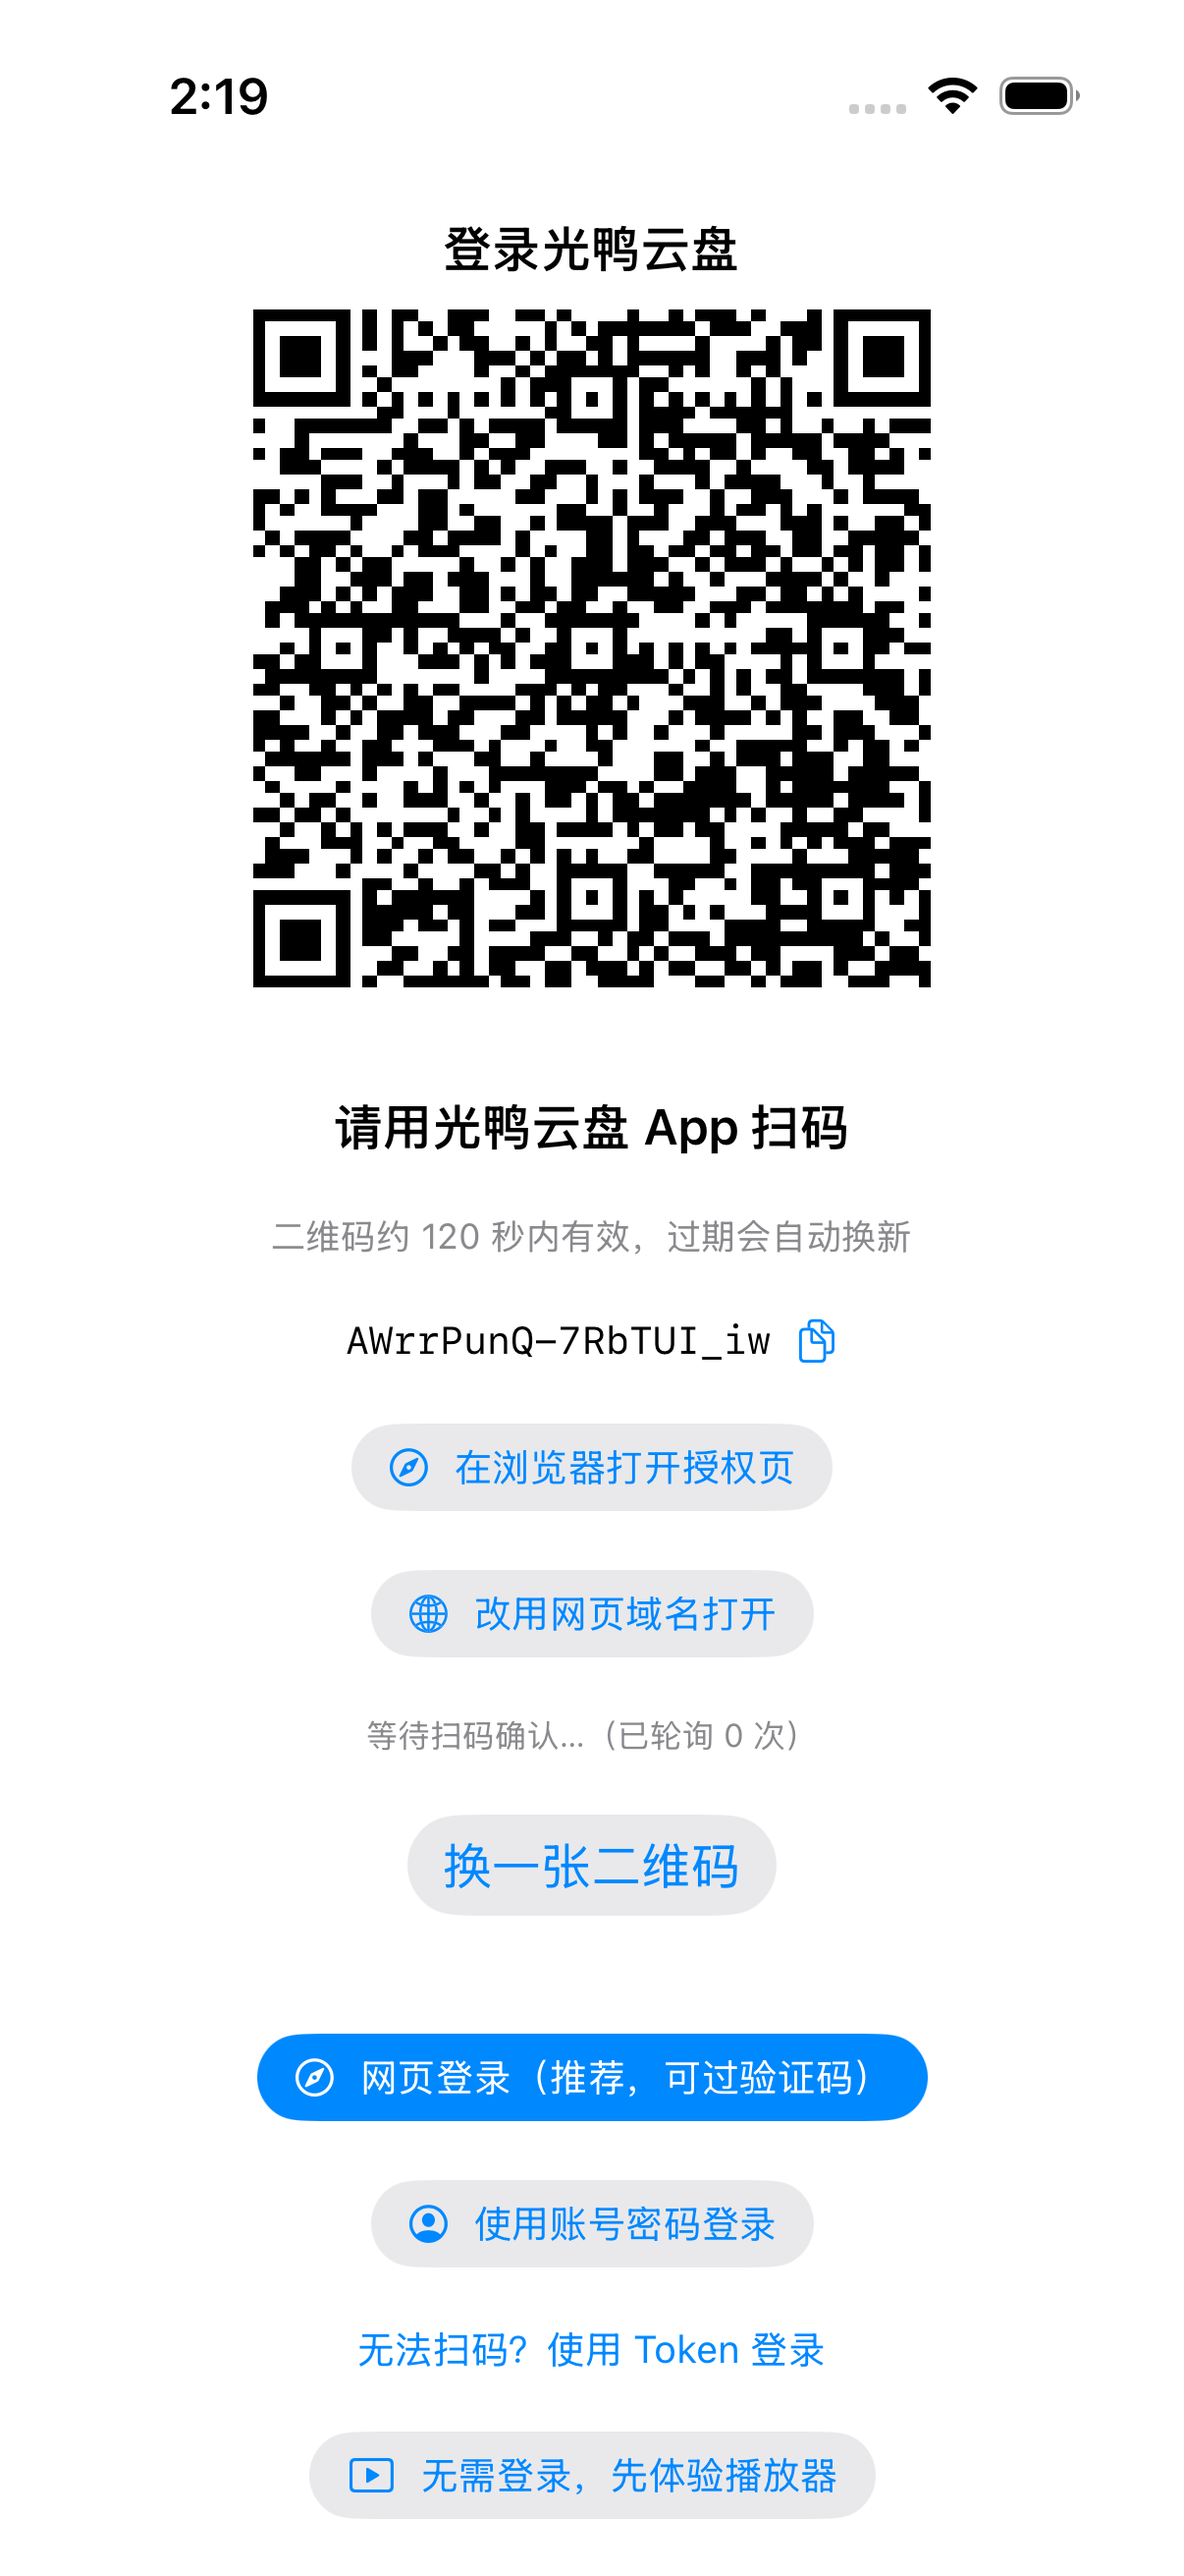
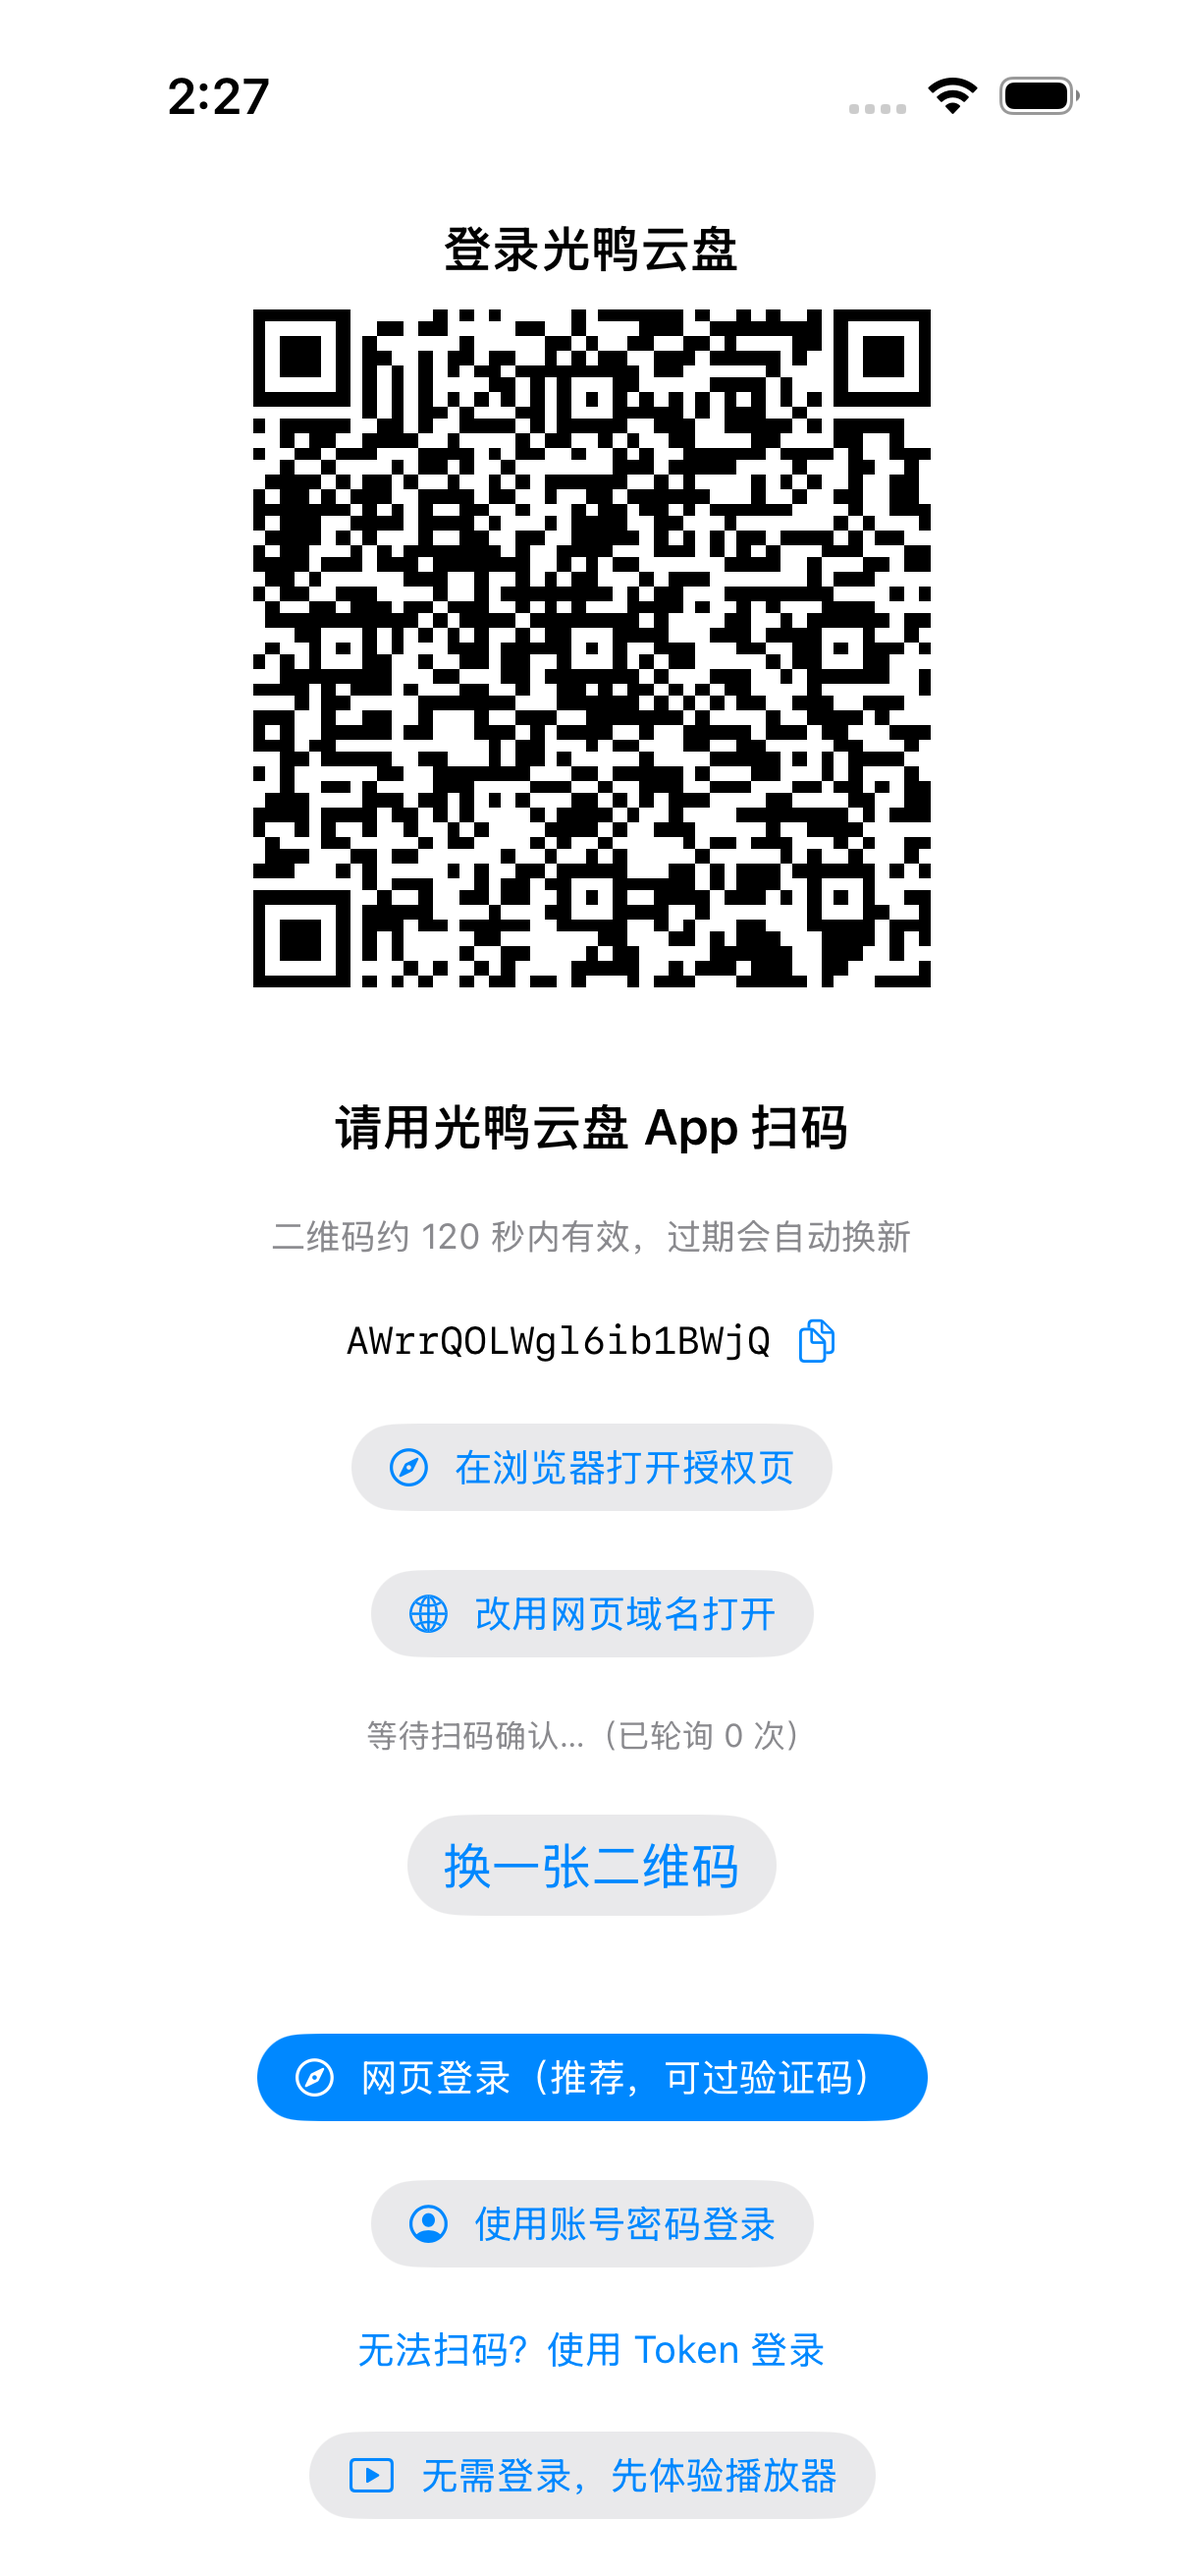
docs+ui(m2): 网页登录提示文案、登录问题定位记录、模拟器截图归档

Changed region(s): [[0.2148, 0.0927, 0.7977, 0.4016], [0.3682, 0.4943, 0.6443, 0.5252], [0.1841, 0.0309, 0.2148, 0.0618]]

diff --git a/Sources/LemonPlayer/Features/Login/WebLoginView.swift b/Sources/LemonPlayer/Features/Login/WebLoginView.swift
@@ -6,7 +6,7 @@ import WebKit
 /// 这里轮询读取并自动完成 App 登录。
 struct WebLoginView: View {
     @Environment(\.dismiss) private var dismiss
-    @State private var message = "在网页中完成登录，成功后会自动返回 App"
+    @State private var message = "在网页中登录（手机验证码 / 密码），成功后自动返回 App"
     @State private var isFinishing = false
 
     let onTokens: @MainActor (String, String) async -> TokenLoginResult

diff --git a/docs/PROGRESS.md b/docs/PROGRESS.md
@@ -8,14 +8,14 @@
 
 | 项目 | 值 |
 |---|---|
-| 当前里程碑 | **v1.0.0 已发布（功能冻结）** |
-| 当前阶段目标 | 真机验收（登录/播放/字幕/下载）→ 反馈修复 → v1.0.1 |
-| 整体进度 | M0-M5 ✅ · M6 ✅80% · M7 ✅90% · **v1.0.0 已出包** |
-| 构建状态 | ✅ CI 全绿 + **v1.0.0 正式 Release**（非预发布） |
+| 当前里程碑 | **v1.0.0 已发布；v1.0.1 登录修复中** |
+| 当前阶段目标 | v1.0.1：App 内网页登录（手机验证码/密码）+ 域名/路由修正 |
+| 整体进度 | M0-M5 ✅ · M6 ✅80% · M7 ✅90% · v1.0.0 已出包 |
+| 构建状态 | ✅ CI 全绿 + v1.0.0 正式 Release；UI 模拟器工作流已跑通 |
 | 单测覆盖率 | 7 个包 **86 个用例**（1 skipped） |
-| 最新产物 | Release `v1.0.0`：https://github.com/2744317644/LemonPlayer/releases/tag/v1.0.0 |
-| 下一步 | 用户真机验收；问题进入 v1.0.1 修复 |
-| 阻塞项 | 真机登录待确认；MKV PiP/AirPlay 为 P2（ADR-020） |
+| 最新产物 | v1.0.1 待发布（登录修复）；v1.0.0 已可用 |
+| 下一步 | 发 v1.0.1 → 用户用「网页登录」走手机验证码登录 |
+| 阻塞项 | 账号密码纯 API 被风控（x-captcha-token）；MKV PiP/AirPlay P2 |
 
 ---
 
@@ -125,6 +125,8 @@
 | 2026-11-05 19:35 | 发布 | 发布前自检：7 包 **86 用例全绿**（1 skipped）；DELIVERY/REGRESSION/README 状态对齐 rc22，准备 v1.0.0 冻结 | `docs/**` | ✅ |
 | 2026-11-05 20:05 | 发布 | 后台下载会话冷启动恢复修复；CI 全绿后打 **`v1.0.0` 正式版**（非预发布，IPA 17.7MB + SHA256） | https://github.com/2744317644/LemonPlayer/releases/tag/v1.0.0 | ✅ |
 | 2026-11-05 20:40 | 收口 | **目标收口**：v1.0.0 交付完成；安全/隐私审查通过；遗留 P2（MKV PiP/AirPlay）进入 v1.1 候选，不阻塞交付 | `docs/DELIVERY.md` | ✅ |
+| 2026-11-05 22:10 | M2 | **登录问题定位**（用户真机反馈）：官网 SDK signIn 必带 `x-captcha-token`（风控验证码），纯 API 密码登录无法通过；官网域名实为 `guangyapan.com`（此前兜底误写 `guangyupan.com` → nginx 404）；真实登录路由为 `/oauth/login` | `docs/api/GUANGYA_API.md` | ✅ |
+| 2026-11-05 22:30 | M2/M7 | 新增 **App 内网页登录**：WKWebView 打开 `/oauth/login`，用户完成手机验证码/密码登录后，轮询 localStorage `credentials_*` 自动抓 token；CI 模拟器实测页面加载成功（欢迎登录光鸭云盘 / 获取验证码 / 2 输入框），截图归档 `docs/screenshots/ui/` | `WebLoginView.swift`、`ui-preview.yml` | ✅ |
 
 ---
 
